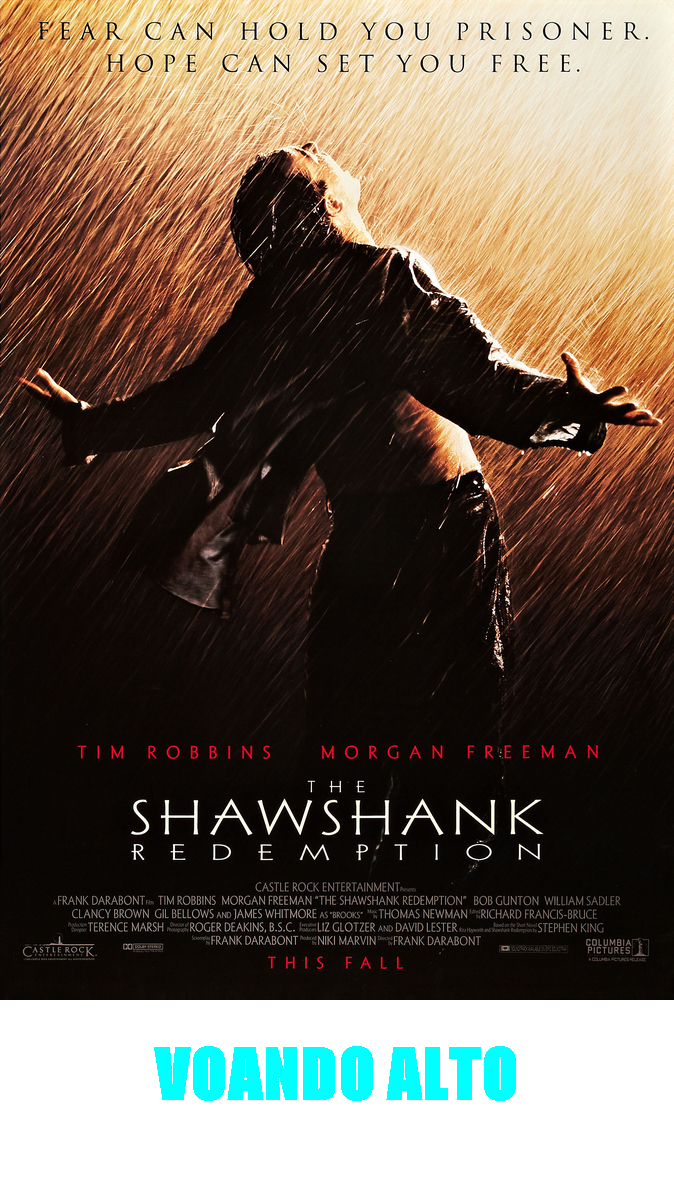
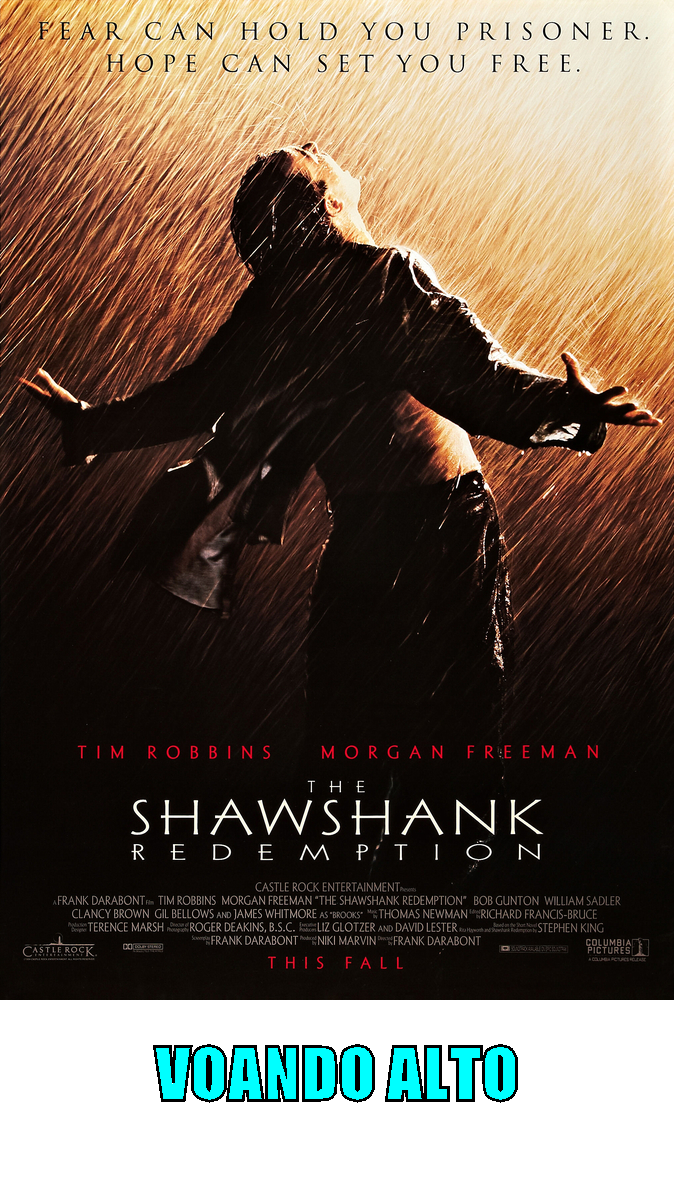
Colocar contorno (outline) no texto da imagem

Changed region(s): [[0.2181, 0.8633, 0.7789, 0.925]]

diff --git a/src/StickerGenerator.java b/src/StickerGenerator.java
@@ -1,7 +1,12 @@
+import java.awt.BasicStroke;
 import java.awt.Color;
 import java.awt.Font;
 import java.awt.FontMetrics;
 import java.awt.Graphics2D;
+import java.awt.Shape;
+import java.awt.font.FontRenderContext;
+import java.awt.font.TextLayout;
+import java.awt.geom.AffineTransform;
 import java.awt.geom.Rectangle2D;
 import java.awt.image.BufferedImage;
 import java.io.File;
@@ -39,7 +44,24 @@ public class StickerGenerator {
 		Rectangle2D retangulo = fontMetrics.getStringBounds(texto, graphics);
 		int larguraTexto = (int) retangulo.getWidth();
 		int posicaoTextoX = (largura - larguraTexto) / 2;
-		graphics.drawString(texto, posicaoTextoX, novaAltura - 100);
+		int posicaoTextoY = novaAltura - 100;
+		graphics.drawString(texto, posicaoTextoX, posicaoTextoY);
+		
+		
+		FontRenderContext fontRenderContext = graphics.getFontRenderContext();
+		var textLayout = new TextLayout(texto, fonte, fontRenderContext);
+		
+		Shape outline = textLayout.getOutline(null);
+		AffineTransform transform = graphics.getTransform();
+		transform.translate(posicaoTextoX, posicaoTextoY);
+		graphics.setTransform(transform);
+		
+		var outlineStroke = new BasicStroke(largura * 0.004f);
+		graphics.setStroke(outlineStroke);
+		
+		graphics.setColor(Color.BLACK);
+		graphics.draw(outline);
+		graphics.setClip(outline);
 		
 		
 		// escrever a nova imagem em um arquivo
